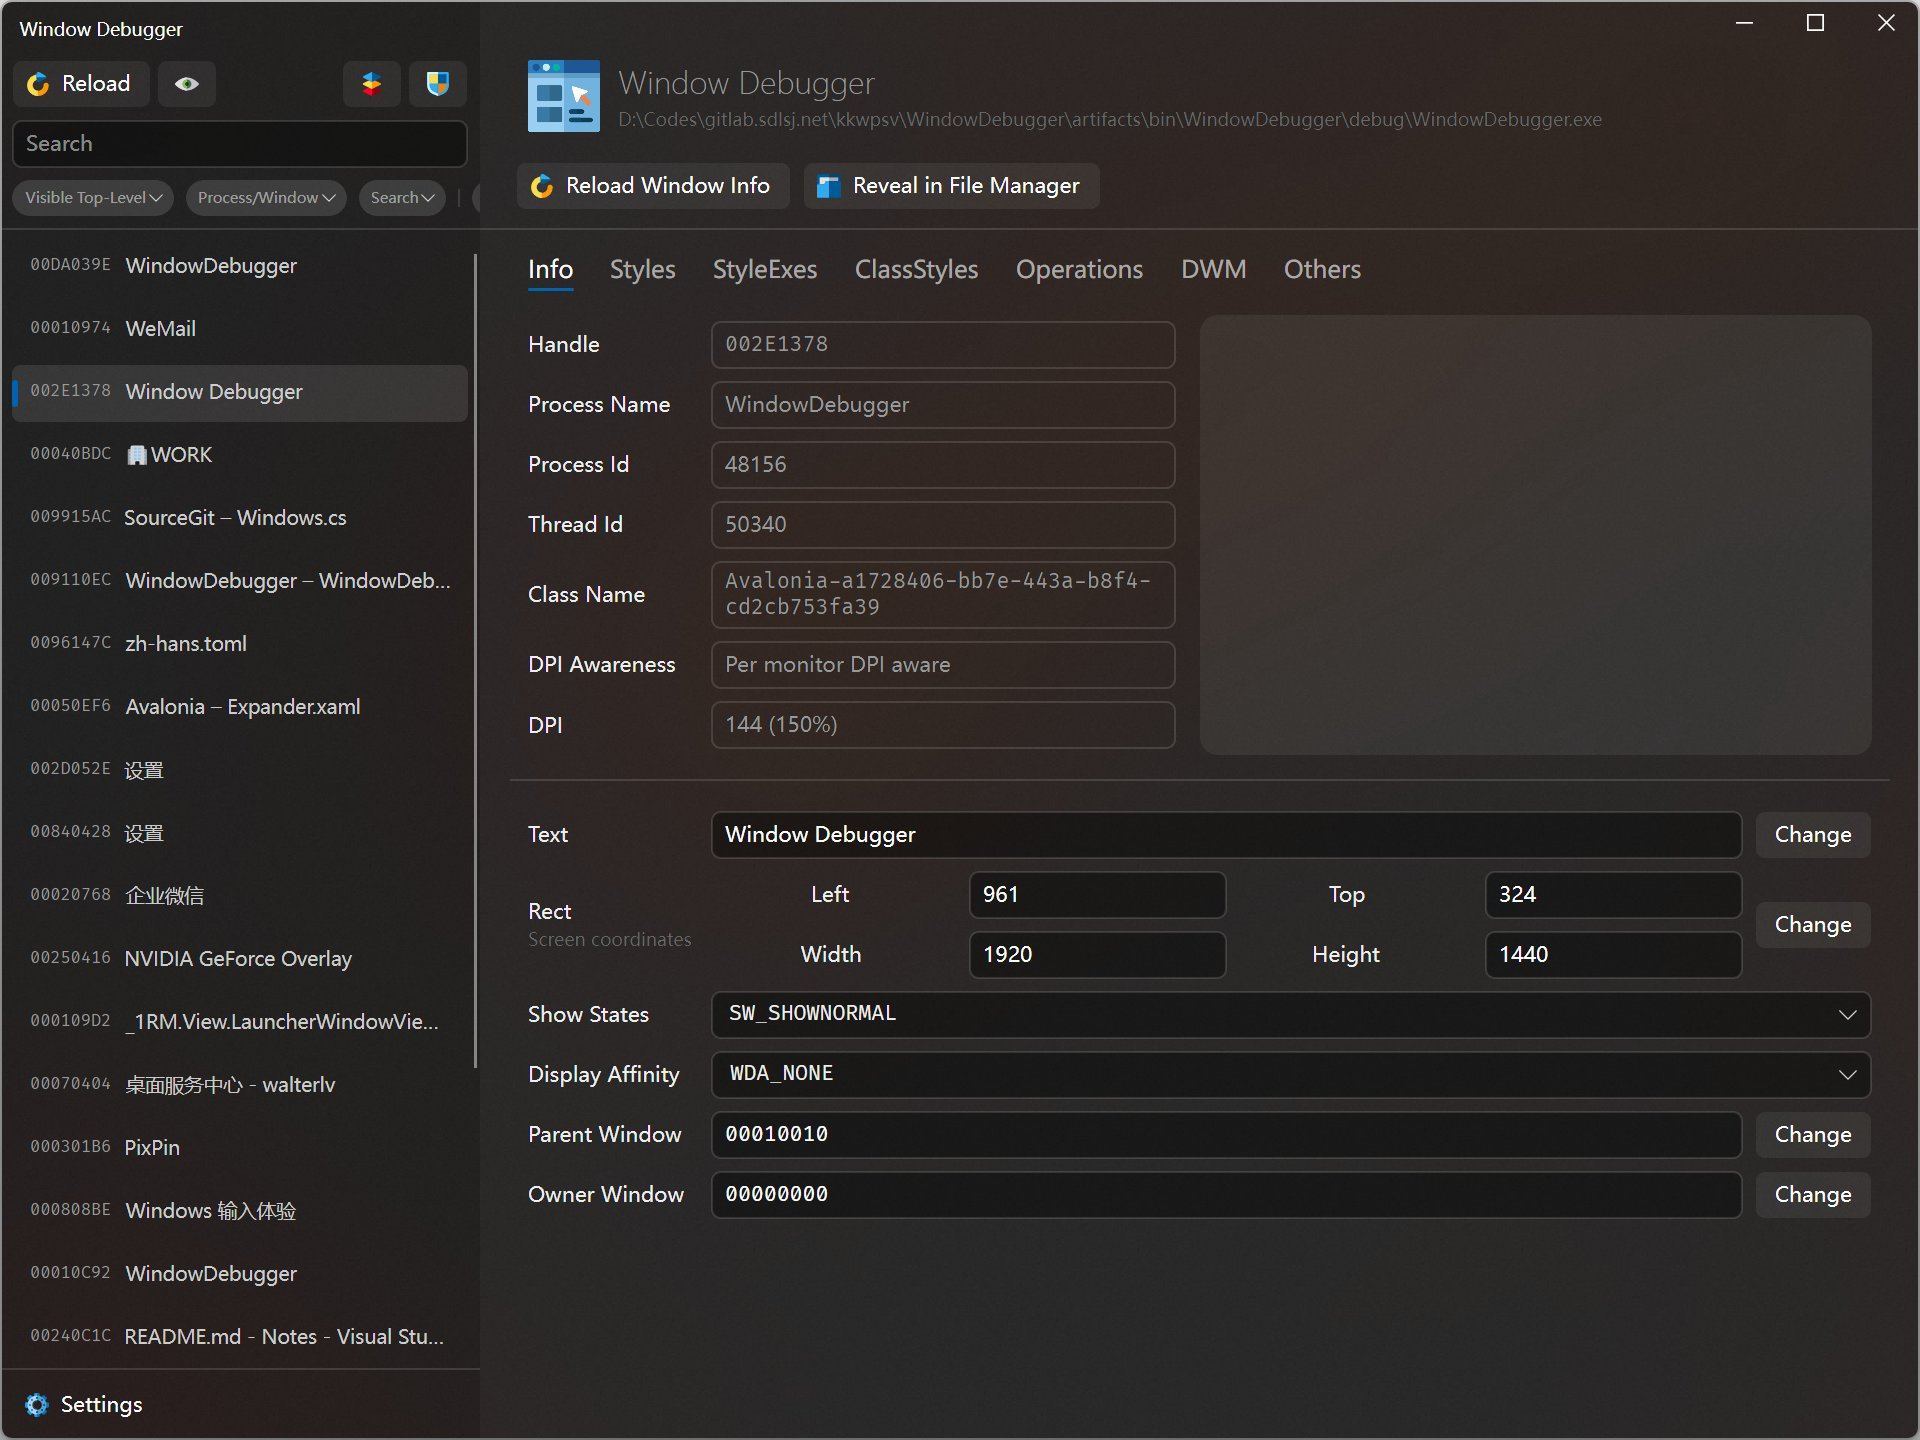
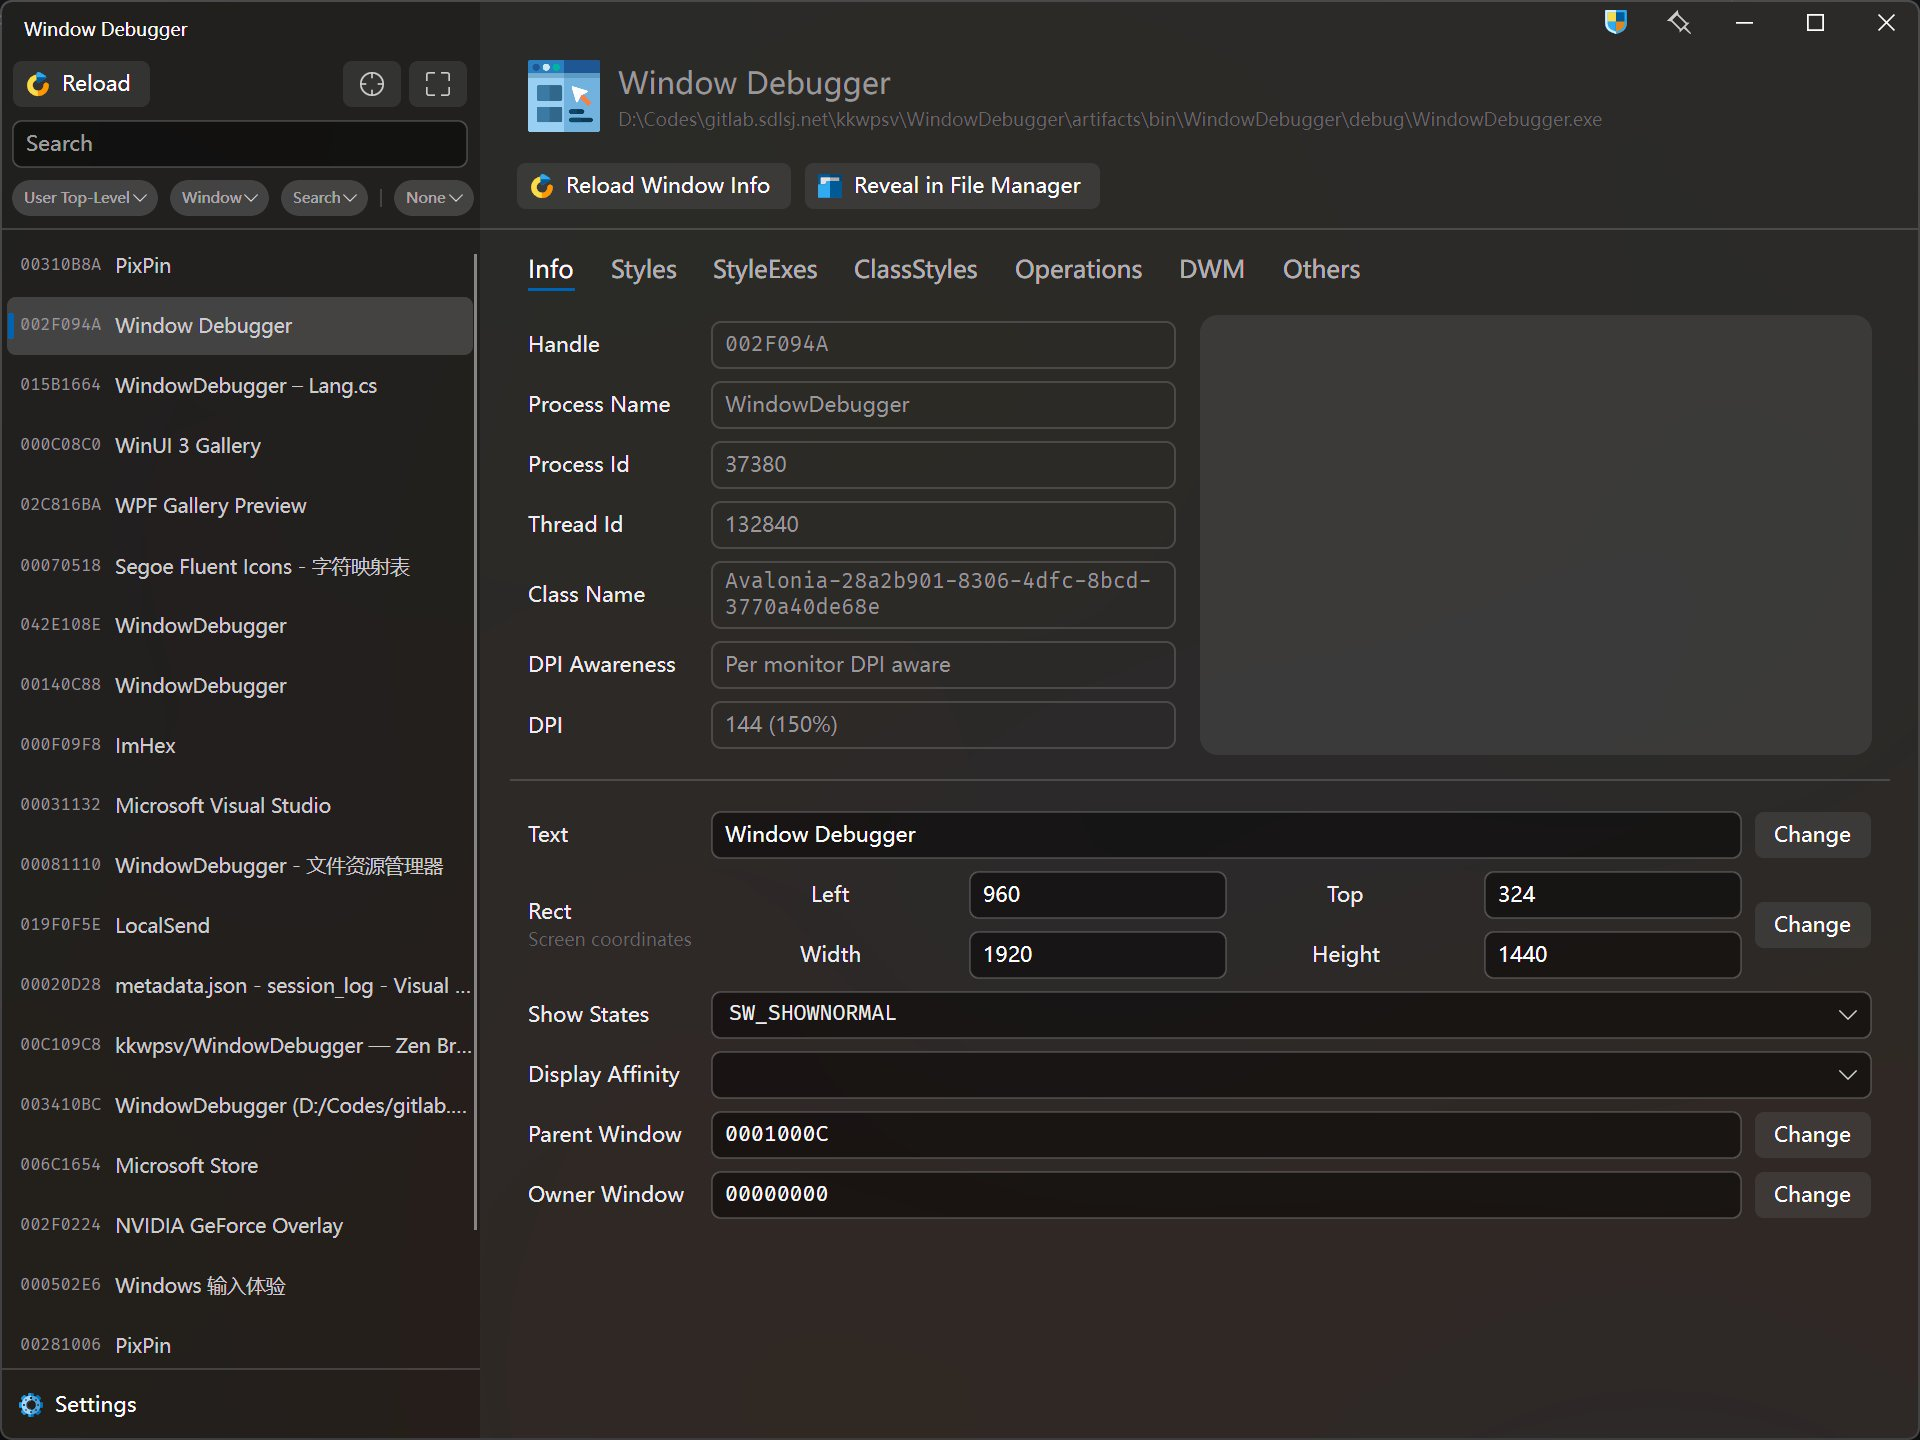
Update README.md

diff --git a/README.md b/README.md
@@ -6,6 +6,8 @@ A tool to debug window.
 
 Get releases from [here](https://gitlab.sdlsj.net/lsj/windowdebugger/-/releases) or [my scoop bucket](https://github.com/kkwpsv/ScoopBucket).
 
+![Icon](src/WindowDebugger/Assets/Icons/icon.256x256.png)
+
 ![en](docs/images/Preview.jpg)
 
 ![zh-cn](docs/images/Preview.zh-cn.jpg)
